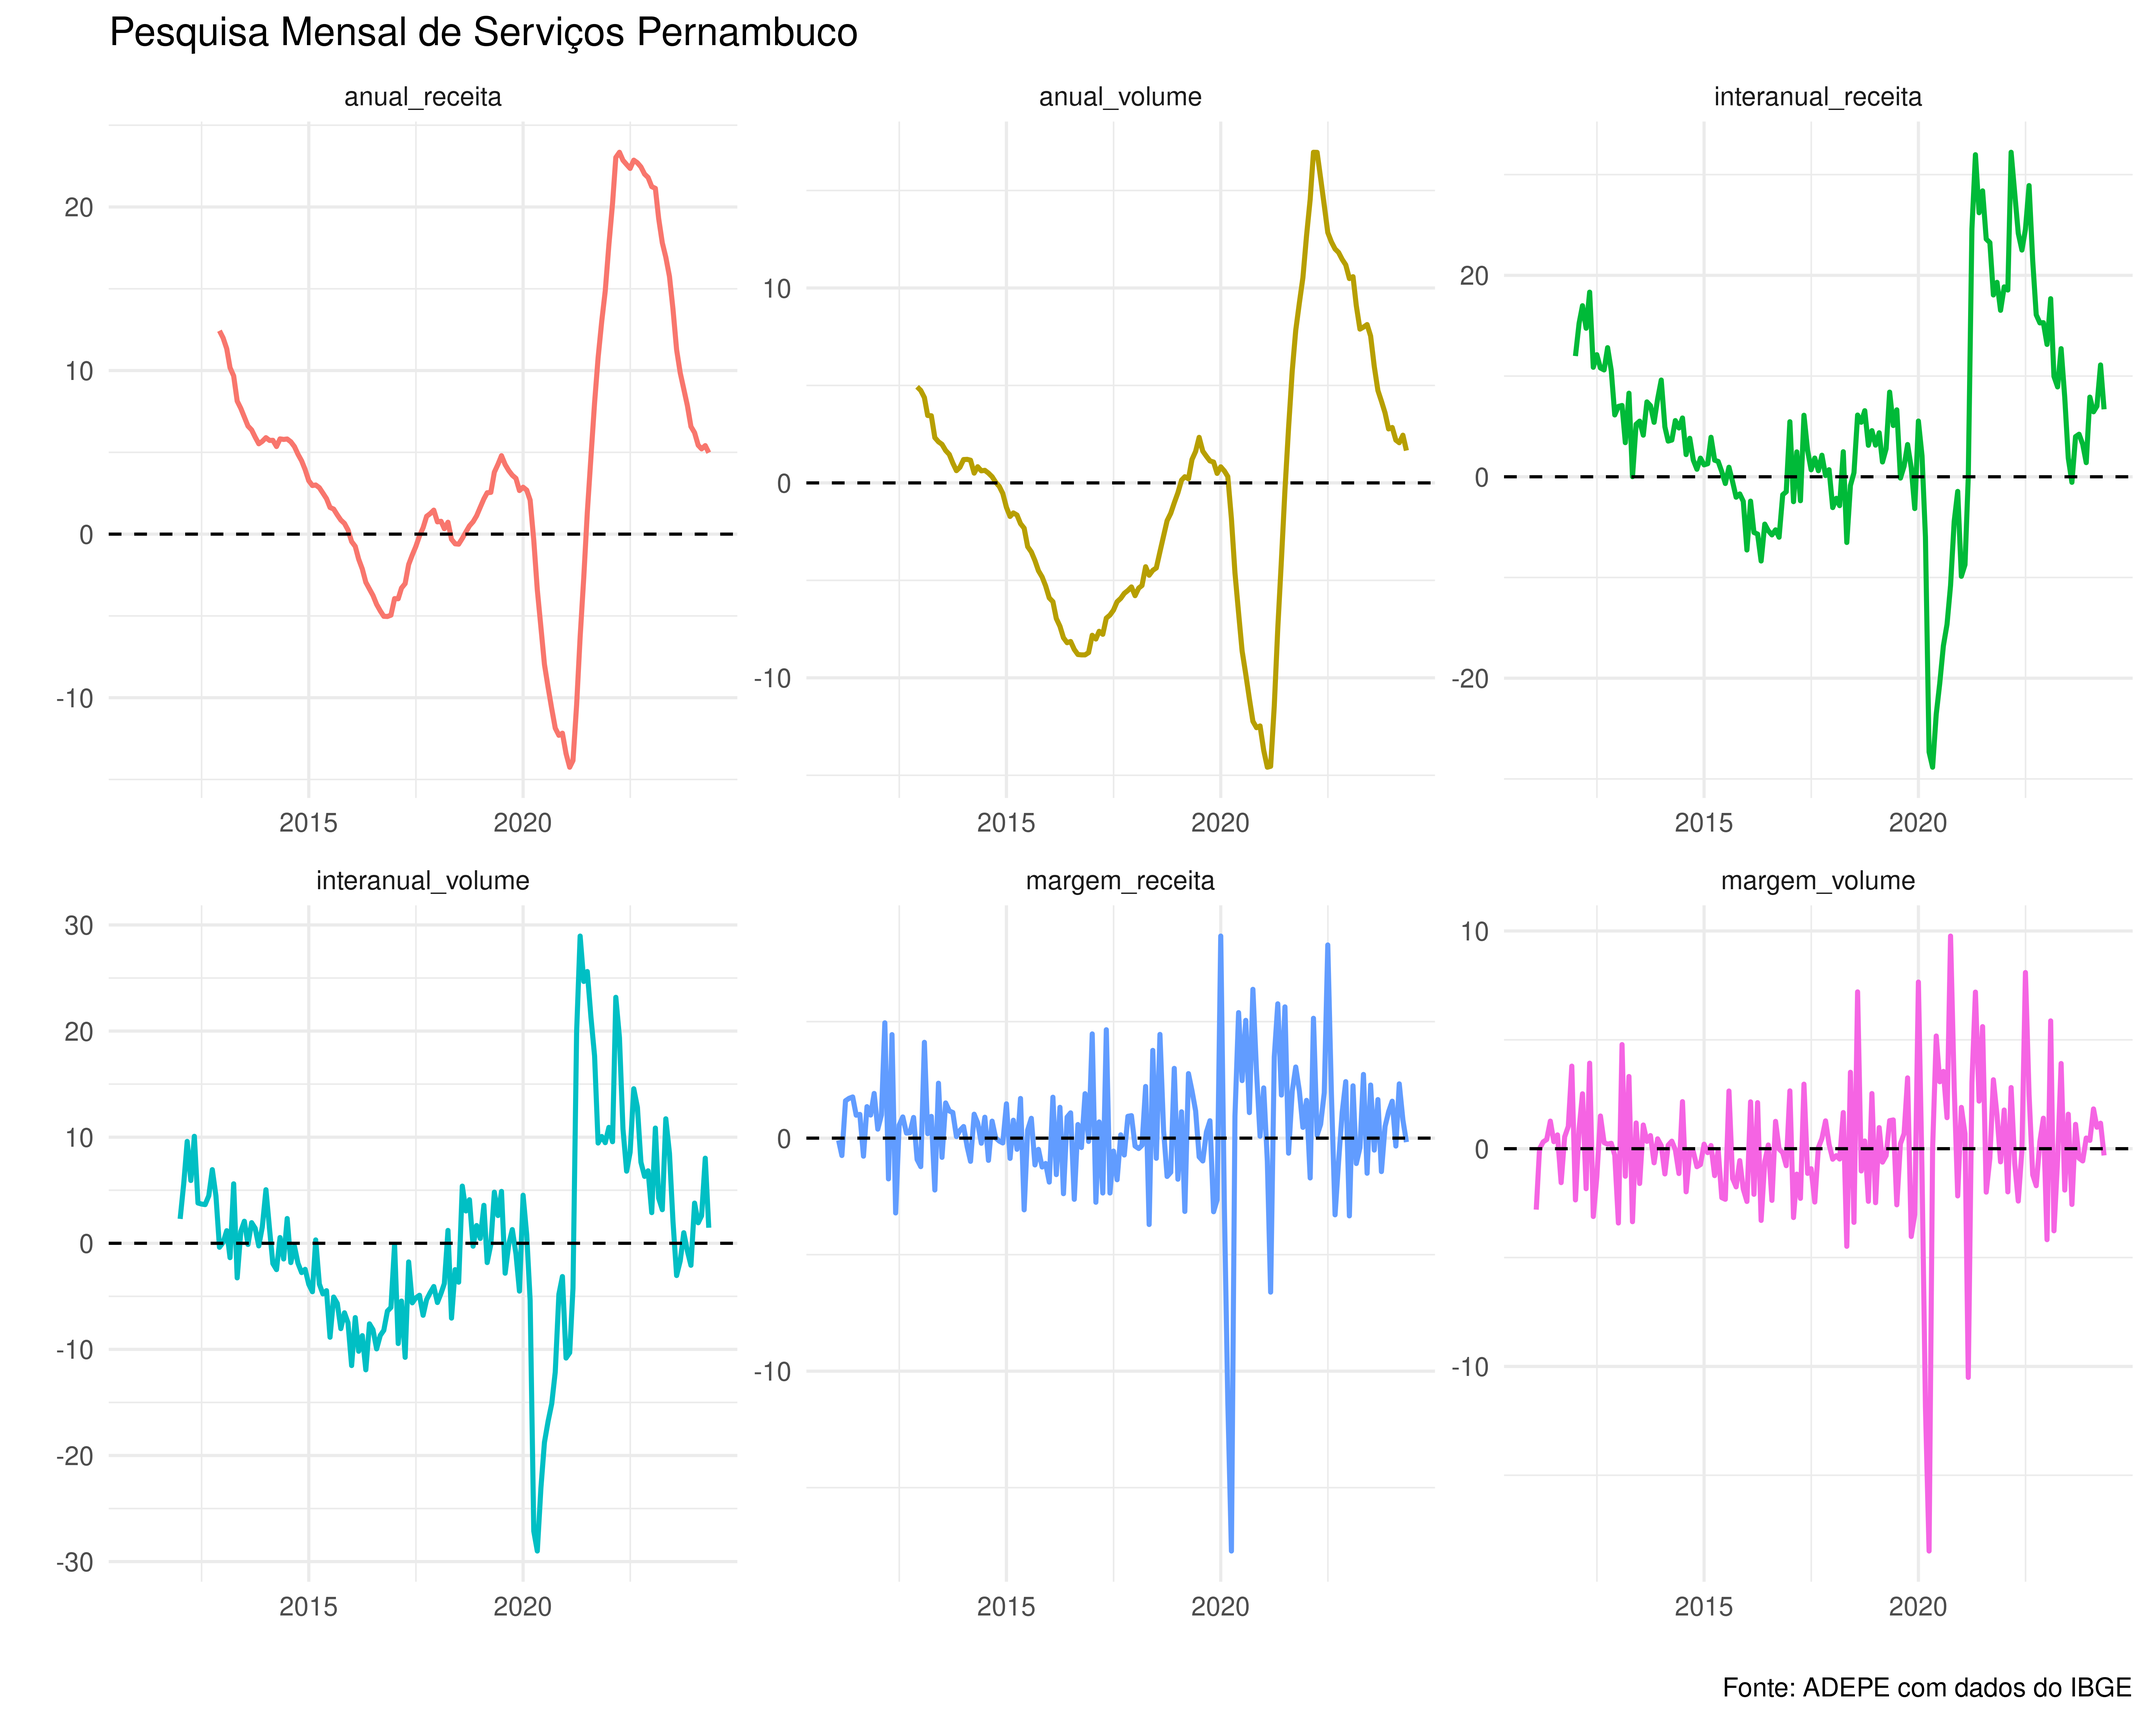
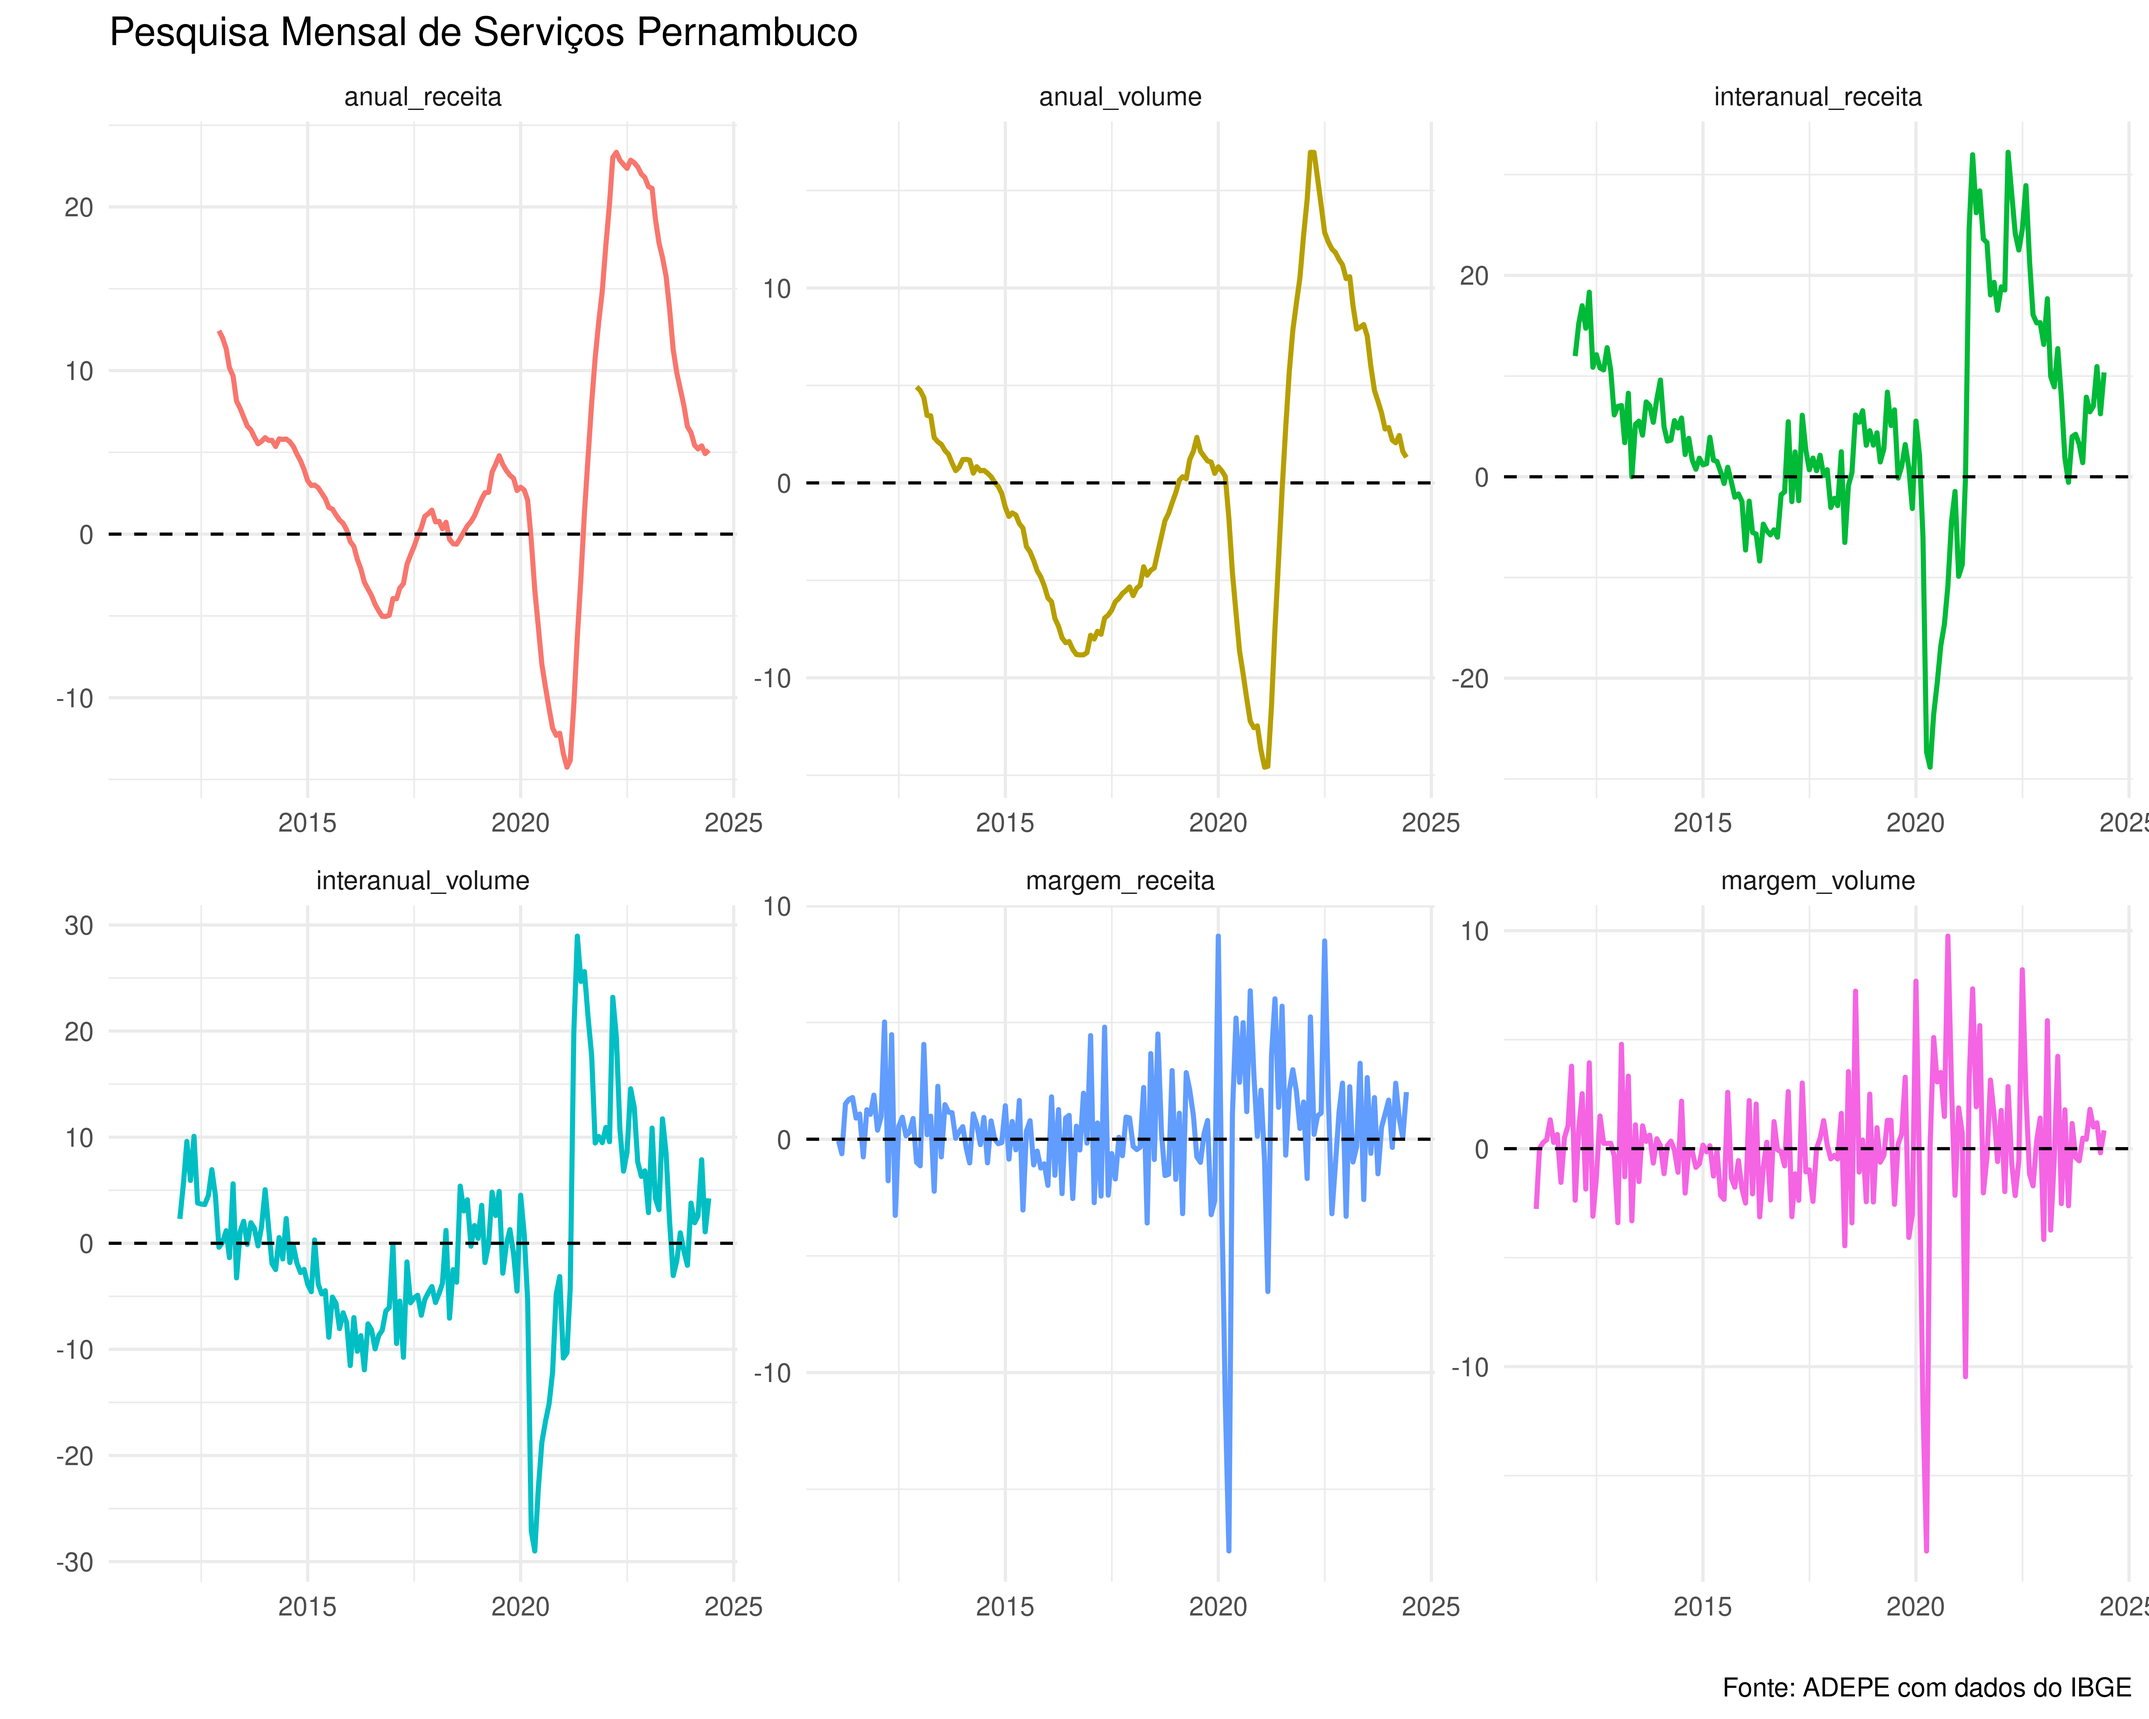
Atualização de relatório automatizada

diff --git a/pms/pms.html b/pms/pms.html
@@ -381,40 +381,40 @@ Núcleo de Dados <br><span style="font-size: 70%;">ADEPE<br><a href="https://git
 </thead>
 <tbody>
 <tr class="odd">
-<td style="text-align: left;">2023-12-01</td>
-<td style="text-align: right;">-0.14</td>
-<td style="text-align: right;">2.96</td>
-<td style="text-align: right;">6.48</td>
-</tr>
-<tr class="even">
 <td style="text-align: left;">2024-01-01</td>
-<td style="text-align: right;">2.50</td>
-<td style="text-align: right;">8.07</td>
-<td style="text-align: right;">6.22</td>
+<td style="text-align: right;">2.36</td>
+<td style="text-align: right;">8.09</td>
+<td style="text-align: right;">6.24</td>
 </tr>
-<tr class="odd">
+<tr class="even">
 <td style="text-align: left;">2024-02-01</td>
-<td style="text-align: right;">-2.04</td>
-<td style="text-align: right;">6.81</td>
-<td style="text-align: right;">5.93</td>
-</tr>
-<tr class="even">
-<td style="text-align: left;">2024-03-01</td>
-<td style="text-align: right;">2.11</td>
-<td style="text-align: right;">1.85</td>
-<td style="text-align: right;">5.10</td>
+<td style="text-align: right;">-1.60</td>
+<td style="text-align: right;">6.83</td>
+<td style="text-align: right;">5.95</td>
 </tr>
 <tr class="odd">
-<td style="text-align: left;">2024-04-01</td>
-<td style="text-align: right;">0.81</td>
-<td style="text-align: right;">8.79</td>
-<td style="text-align: right;">5.17</td>
+<td style="text-align: left;">2024-03-01</td>
+<td style="text-align: right;">1.73</td>
+<td style="text-align: right;">1.79</td>
+<td style="text-align: right;">5.11</td>
 </tr>
 <tr class="even">
+<td style="text-align: left;">2024-04-01</td>
+<td style="text-align: right;">0.77</td>
+<td style="text-align: right;">8.25</td>
+<td style="text-align: right;">5.14</td>
+</tr>
+<tr class="odd">
 <td style="text-align: left;">2024-05-01</td>
-<td style="text-align: right;">-0.32</td>
-<td style="text-align: right;">5.00</td>
-<td style="text-align: right;">4.97</td>
+<td style="text-align: right;">-1.02</td>
+<td style="text-align: right;">4.06</td>
+<td style="text-align: right;">4.86</td>
+</tr>
+<tr class="even">
+<td style="text-align: left;">2024-06-01</td>
+<td style="text-align: right;">2.71</td>
+<td style="text-align: right;">6.28</td>
+<td style="text-align: right;">4.91</td>
 </tr>
 </tbody>
 </table>
@@ -436,40 +436,40 @@ Núcleo de Dados <br><span style="font-size: 70%;">ADEPE<br><a href="https://git
 </thead>
 <tbody>
 <tr class="odd">
-<td style="text-align: left;">2023-12-01</td>
-<td style="text-align: right;">0.50</td>
-<td style="text-align: right;">-1.84</td>
-<td style="text-align: right;">2.41</td>
-</tr>
-<tr class="even">
 <td style="text-align: left;">2024-01-01</td>
-<td style="text-align: right;">0.39</td>
-<td style="text-align: right;">3.81</td>
-<td style="text-align: right;">2.31</td>
+<td style="text-align: right;">0.51</td>
+<td style="text-align: right;">3.83</td>
+<td style="text-align: right;">2.33</td>
 </tr>
-<tr class="odd">
+<tr class="even">
 <td style="text-align: left;">2024-02-01</td>
-<td style="text-align: right;">-0.76</td>
-<td style="text-align: right;">2.41</td>
-<td style="text-align: right;">2.14</td>
-</tr>
-<tr class="even">
-<td style="text-align: left;">2024-03-01</td>
-<td style="text-align: right;">0.64</td>
-<td style="text-align: right;">-2.12</td>
-<td style="text-align: right;">1.42</td>
+<td style="text-align: right;">-0.48</td>
+<td style="text-align: right;">2.43</td>
+<td style="text-align: right;">2.16</td>
 </tr>
 <tr class="odd">
-<td style="text-align: left;">2024-04-01</td>
-<td style="text-align: right;">0.33</td>
-<td style="text-align: right;">5.52</td>
-<td style="text-align: right;">1.65</td>
+<td style="text-align: left;">2024-03-01</td>
+<td style="text-align: right;">0.34</td>
+<td style="text-align: right;">-2.18</td>
+<td style="text-align: right;">1.43</td>
 </tr>
 <tr class="even">
+<td style="text-align: left;">2024-04-01</td>
+<td style="text-align: right;">0.36</td>
+<td style="text-align: right;">5.02</td>
+<td style="text-align: right;">1.62</td>
+</tr>
+<tr class="odd">
 <td style="text-align: left;">2024-05-01</td>
-<td style="text-align: right;">-0.03</td>
-<td style="text-align: right;">0.76</td>
-<td style="text-align: right;">1.29</td>
+<td style="text-align: right;">-0.38</td>
+<td style="text-align: right;">-0.09</td>
+<td style="text-align: right;">1.19</td>
+</tr>
+<tr class="even">
+<td style="text-align: left;">2024-06-01</td>
+<td style="text-align: right;">1.67</td>
+<td style="text-align: right;">1.31</td>
+<td style="text-align: right;">0.96</td>
 </tr>
 </tbody>
 </table>
@@ -517,40 +517,40 @@ Núcleo de Dados <br><span style="font-size: 70%;">ADEPE<br><a href="https://git
 </thead>
 <tbody>
 <tr class="odd">
-<td style="text-align: left;">2023-12-01</td>
-<td style="text-align: right;">1.13</td>
-<td style="text-align: right;">1.41</td>
-<td style="text-align: right;">6.58</td>
-</tr>
-<tr class="even">
 <td style="text-align: left;">2024-01-01</td>
-<td style="text-align: right;">1.58</td>
+<td style="text-align: right;">1.68</td>
 <td style="text-align: right;">7.91</td>
 <td style="text-align: right;">6.20</td>
 </tr>
-<tr class="odd">
+<tr class="even">
 <td style="text-align: left;">2024-02-01</td>
-<td style="text-align: right;">-0.34</td>
+<td style="text-align: right;">-0.35</td>
 <td style="text-align: right;">6.45</td>
 <td style="text-align: right;">5.43</td>
 </tr>
-<tr class="even">
+<tr class="odd">
 <td style="text-align: left;">2024-03-01</td>
-<td style="text-align: right;">2.33</td>
+<td style="text-align: right;">2.40</td>
 <td style="text-align: right;">7.01</td>
 <td style="text-align: right;">5.21</td>
 </tr>
-<tr class="odd">
+<tr class="even">
 <td style="text-align: left;">2024-04-01</td>
-<td style="text-align: right;">0.78</td>
-<td style="text-align: right;">11.10</td>
-<td style="text-align: right;">5.41</td>
+<td style="text-align: right;">0.86</td>
+<td style="text-align: right;">10.94</td>
+<td style="text-align: right;">5.40</td>
+</tr>
+<tr class="odd">
+<td style="text-align: left;">2024-05-01</td>
+<td style="text-align: right;">0.07</td>
+<td style="text-align: right;">6.25</td>
+<td style="text-align: right;">4.92</td>
 </tr>
 <tr class="even">
-<td style="text-align: left;">2024-05-01</td>
-<td style="text-align: right;">-0.17</td>
-<td style="text-align: right;">6.70</td>
-<td style="text-align: right;">4.98</td>
+<td style="text-align: left;">2024-06-01</td>
+<td style="text-align: right;">2.02</td>
+<td style="text-align: right;">10.36</td>
+<td style="text-align: right;">5.14</td>
 </tr>
 </tbody>
 </table>
@@ -572,40 +572,40 @@ Núcleo de Dados <br><span style="font-size: 70%;">ADEPE<br><a href="https://git
 </thead>
 <tbody>
 <tr class="odd">
-<td style="text-align: left;">2023-12-01</td>
-<td style="text-align: right;">0.49</td>
-<td style="text-align: right;">-2.07</td>
-<td style="text-align: right;">2.77</td>
-</tr>
-<tr class="even">
 <td style="text-align: left;">2024-01-01</td>
-<td style="text-align: right;">0.38</td>
-<td style="text-align: right;">3.78</td>
+<td style="text-align: right;">0.43</td>
+<td style="text-align: right;">3.79</td>
 <td style="text-align: right;">2.84</td>
 </tr>
-<tr class="odd">
-<td style="text-align: left;">2024-02-01</td>
-<td style="text-align: right;">1.83</td>
-<td style="text-align: right;">1.93</td>
-<td style="text-align: right;">2.20</td>
-</tr>
 <tr class="even">
+<td style="text-align: left;">2024-02-01</td>
+<td style="text-align: right;">1.80</td>
+<td style="text-align: right;">1.93</td>
+<td style="text-align: right;">2.19</td>
+</tr>
+<tr class="odd">
 <td style="text-align: left;">2024-03-01</td>
 <td style="text-align: right;">0.99</td>
 <td style="text-align: right;">2.60</td>
 <td style="text-align: right;">2.06</td>
 </tr>
-<tr class="odd">
+<tr class="even">
 <td style="text-align: left;">2024-04-01</td>
-<td style="text-align: right;">1.17</td>
-<td style="text-align: right;">8.02</td>
-<td style="text-align: right;">2.45</td>
+<td style="text-align: right;">1.18</td>
+<td style="text-align: right;">7.88</td>
+<td style="text-align: right;">2.43</td>
+</tr>
+<tr class="odd">
+<td style="text-align: left;">2024-05-01</td>
+<td style="text-align: right;">-0.19</td>
+<td style="text-align: right;">1.08</td>
+<td style="text-align: right;">1.61</td>
 </tr>
 <tr class="even">
-<td style="text-align: left;">2024-05-01</td>
-<td style="text-align: right;">-0.31</td>
-<td style="text-align: right;">1.46</td>
-<td style="text-align: right;">1.66</td>
+<td style="text-align: left;">2024-06-01</td>
+<td style="text-align: right;">0.84</td>
+<td style="text-align: right;">4.23</td>
+<td style="text-align: right;">1.31</td>
 </tr>
 </tbody>
 </table>
